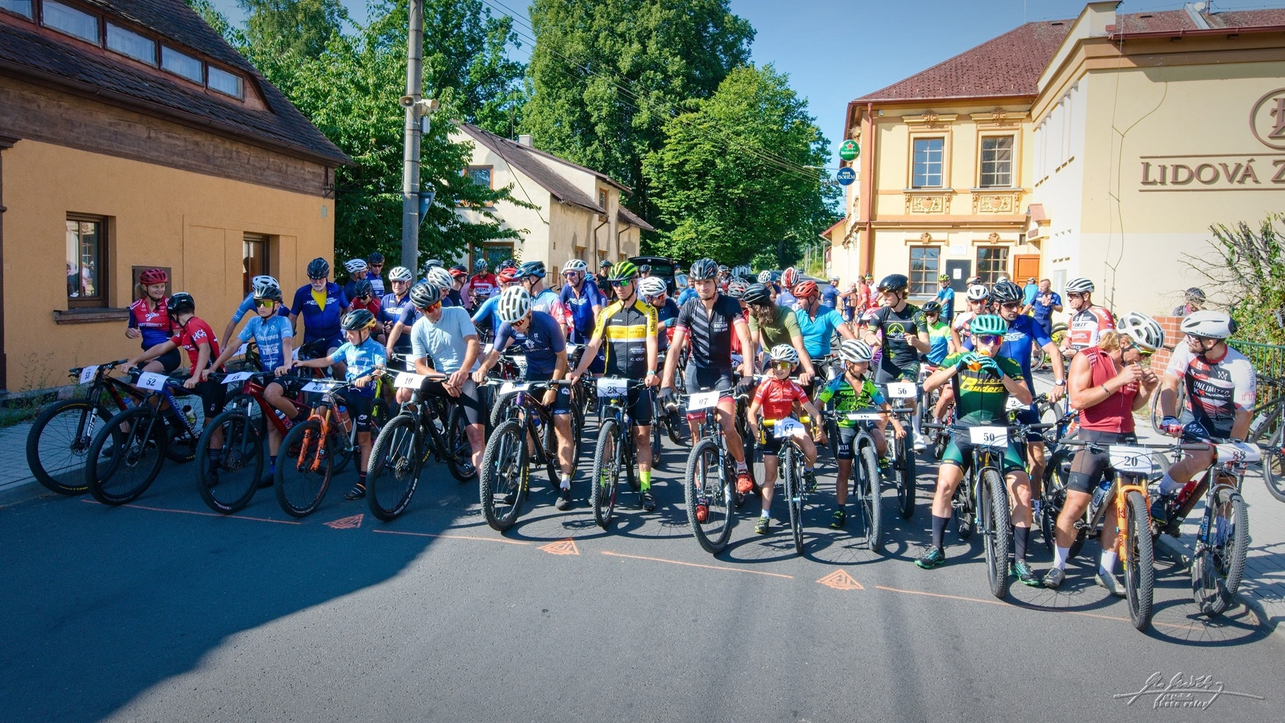
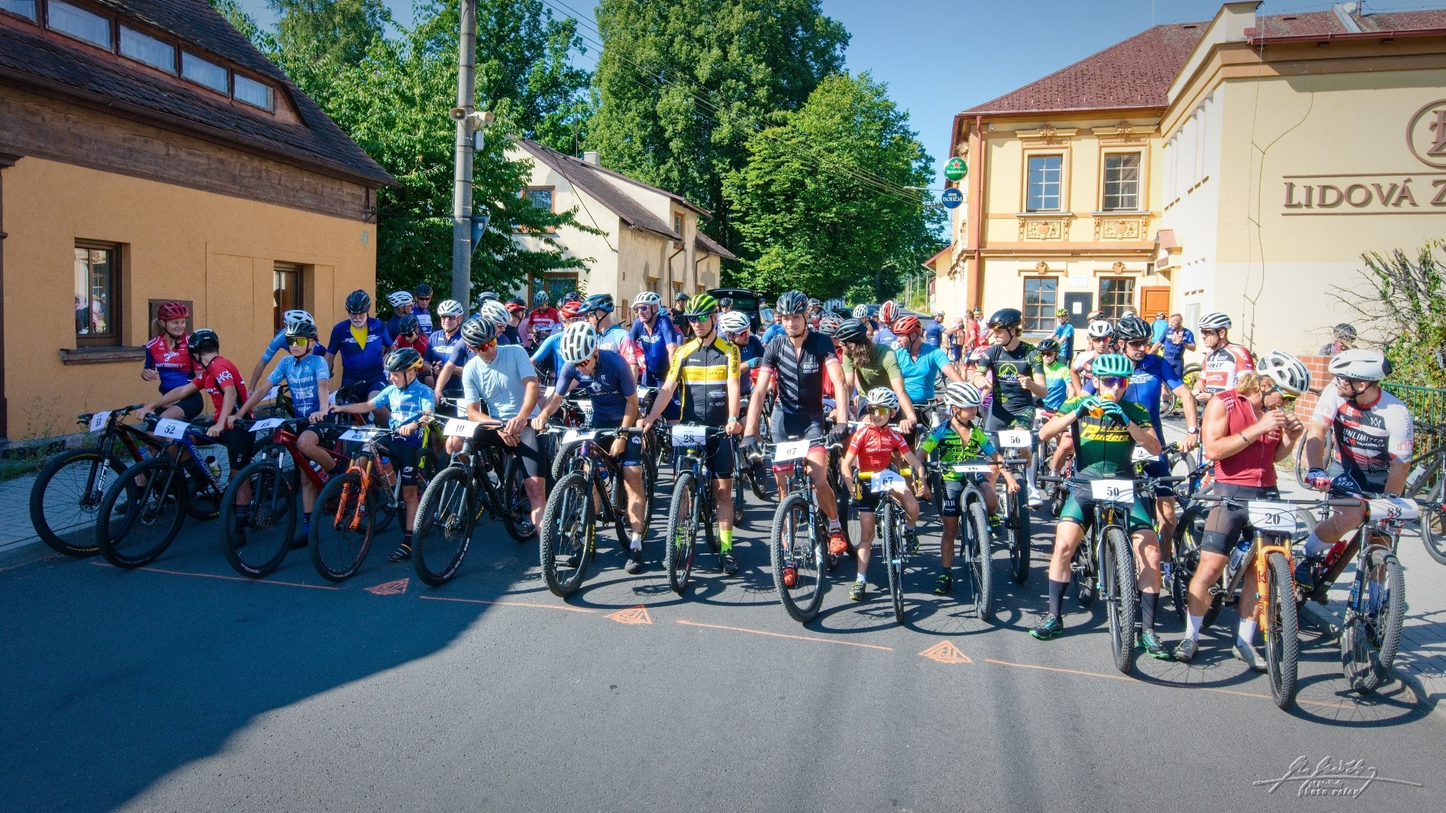
web tour de jedlova v 1.16.0
SEO ... vyhledávání

diff --git a/index.html b/index.html
@@ -3,7 +3,58 @@
 <html lang="cs">
 <head>
 <meta charset="utf-8"/><meta content="width=device-width,initial-scale=1" name="viewport"/>
-<title>TDJ — Tour de Jedlová | V20.4</title>
+<title>Tour de Jedlová | Tradiční MTB závod Varnsdorf – Jedlová</title>
+<meta name="description" content="Oficiální web Tour de Jedlová – tradičního MTB závodu z Varnsdorfu na vrchol Jedlové. Propozice, trasa, výsledky, fotogalerie, historie a registrace.">
+<meta name="robots" content="index,follow,max-image-preview:large">
+<link rel="canonical" href="https://tourdejedlova.cz/">
+<meta property="og:type" content="website">
+<meta property="og:locale" content="cs_CZ">
+<meta property="og:site_name" content="Tour de Jedlová">
+<meta property="og:title" content="Tour de Jedlová | Tradiční MTB závod Varnsdorf – Jedlová">
+<meta property="og:description" content="Tradiční MTB závod z Varnsdorfu na vrchol Jedlové. Propozice, trasa, výsledky, fotogalerie a historie závodu.">
+<meta property="og:url" content="https://tourdejedlova.cz/">
+<meta property="og:image" content="https://tourdejedlova.cz/assets/images/embedded/hero-desktop-v111.jpg">
+<meta name="twitter:card" content="summary_large_image">
+<meta name="twitter:title" content="Tour de Jedlová | Tradiční MTB závod">
+<meta name="twitter:description" content="Tradiční MTB závod z Varnsdorfu na vrchol Jedlové.">
+<meta name="twitter:image" content="https://tourdejedlova.cz/assets/images/embedded/hero-desktop-v111.jpg">
+<script type="application/ld+json">
+{
+  "@context": "https://schema.org",
+  "@type": "WebSite",
+  "name": "Tour de Jedlová",
+  "alternateName": "TDJ",
+  "url": "https://tourdejedlova.cz/",
+  "inLanguage": "cs-CZ",
+  "description": "Oficiální web tradičního MTB závodu Tour de Jedlová z Varnsdorfu na vrchol Jedlové."
+}
+</script>
+<script type="application/ld+json">
+{
+  "@context": "https://schema.org",
+  "@type": "SportsEvent",
+  "name": "Tour de Jedlová",
+  "description": "Tradiční závod horských kol z Varnsdorfu přes Dolní Podluží a Jiřetín pod Jedlovou až k rozhledně Jedlová.",
+  "sport": "Mountain biking",
+  "eventStatus": "https://schema.org/EventScheduled",
+  "location": {
+    "@type": "Place",
+    "name": "Lidová zahrada, Varnsdorf",
+    "address": {
+      "@type": "PostalAddress",
+      "addressLocality": "Varnsdorf",
+      "addressCountry": "CZ"
+    }
+  },
+  "url": "https://tourdejedlova.cz/",
+  "image": "https://tourdejedlova.cz/assets/images/embedded/hero-desktop-v111.jpg",
+  "organizer": {
+    "@type": "Organization",
+    "name": "CC Varnsdorf",
+    "url": "https://ccvarnsdorf.xf.cz/"
+  }
+}
+</script>
 
 <link href="https://unpkg.com/leaflet@1.9.4/dist/leaflet.css" rel="stylesheet"/>
 
